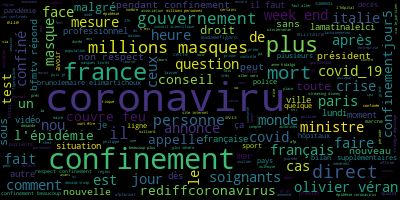
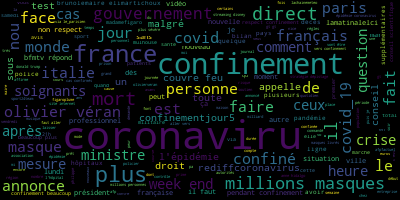
mots du jour

diff --git a/Wordcloud_actu_france.py b/Wordcloud_actu_france.py
@@ -1,0 +1,288 @@
+#!/usr/bin/env python
+# coding: utf-8
+
+# In[2]:
+
+
+#pip install tweepy')
+#import twitter
+import tweepy
+
+#### On remplace ici les valeurs des Key, secret et Token par celle de l'application crée sur l'environnement twitter
+CONSUMER_KEY = 'ZJyhgelWsFYnRKDPyGEXaCwkk'
+CONSUMER_SECRET = 'dcohnsZaqPV9zlqz3aFjQmOXeKCaFNMOfmZ6fSbuuyPiwSkNO3'
+OAUTH_TOKEN = '1146751549282148352-WVM8z9n77P4zhl7F11RJuTdeG5r6go'
+OAUTH_TOKEN_SECRET = 'TQGtNYyD3FBSXXdVkL7bLKhwNcHuUNsIwVezDSEWPuTaq'
+
+##### Connecxion à l'API
+auth = tweepy.OAuthHandler(CONSUMER_KEY, CONSUMER_SECRET)
+#  Token and secret
+auth.set_access_token(OAUTH_TOKEN, OAUTH_TOKEN_SECRET)
+
+# Création de l'API
+api = tweepy.API(auth) 
+
+## Afficher l'objet twitter API
+#api
+
+
+# #### Ma timeline
+
+# In[3]:
+
+
+#public_tweets = api.home_timeline()
+# foreach through all tweets pulled
+#for tweet in public_tweets:
+   # printing the text stored inside the tweet object
+#   print(tweet.user.screen_name,"a Twitté:",tweet.text)
+
+
+# #### Recherche d'un profil particulier (Ici Nobel Price, compte offciel)
+
+# In[4]:
+
+
+#### Recherche de profil tweeter  (user timeline)
+
+#api = tweepy.API(auth)
+
+# The Twitter user who we want to get tweets from Nobel price
+
+#name = "nobelprize"
+
+# Number of tweets to pull
+
+#tweetCount = 20
+
+# Calling the user_timeline function with our parameters
+#results = api.user_timeline(id=name, count=tweetCount, lang="fr")
+
+# foreach through all tweets pulled
+#for tweet in results:
+   # printing the text stored inside the tweet object
+#   print(tweet.text)
+
+
+# #### Recherche d'un mots clé en particulier (Requête twitter ou Hashtag)
+
+# In[5]:
+
+
+# Creating the API object while passing in auth information
+api = tweepy.API(auth)
+
+# Le mots a cherché
+query = "#France"
+# Langue
+language = "fr"
+
+# Calling the user_timeline function with our parameters
+results = api.search(q=query, lang=language)
+
+# foreach through all tweets pulled
+#for tweet in results:
+   # printing the text stored inside the tweet object
+#   print(tweet.user.screen_name,"Tweeted:",tweet.text)
+result2 = []
+for tre in results:
+    result2.append(results)
+
+
+# In[6]:
+
+
+#for tweet in results:
+   # printing the text stored inside the tweet object
+#   print(tweet.user.screen_name,"Tweeted:",tweet.text)
+
+
+# #### Récuperer les 100 derniers tweets de 8 journaux
+
+# In[7]:
+
+
+result = []
+liste = ["@CNEWS", "@BFMTV", "@lemondefr", "@le_Parisien", "@LCI", "@franceinfo", "@afpfr", "@Le_Figaro"]
+for ele in liste:
+    result.append(api.user_timeline(ele, count = 100))
+#for i in result:
+#    for tweet in i:
+#        print(tweet.text)
+    
+#len(result)
+
+
+# In[8]:
+
+
+#for i in result:
+#    for tweet in i:
+#        print(tweet.text)
+
+
+# In[9]:
+
+
+result3=result#+result2
+
+
+# In[10]:
+
+
+#result3
+
+
+# #### Nettoyage des données
+
+# In[11]:
+
+
+#pip install nltk
+#pip install textblob
+import tweepy as tw
+#import pandas as pd
+import matplotlib.pyplot as plt
+#import seaborn as sns
+#import itertools
+#import collections
+import nltk
+from nltk.corpus import stopwords
+import re
+#import networkx
+#from textblob import TextBlob
+
+import warnings
+warnings.filterwarnings("ignore")
+
+##### On définie une fonction de nettoyage des données
+
+def remove_url(txt):
+    """Remplace les url trouvée par le caractère vide " "
+    
+
+    Parametre
+    ----------
+    txt : string
+        la variable string que l'on soutaite remplacer
+
+    Sortie
+    -------
+    
+    Le fichier nettoyé des url
+    
+    """
+
+    #return " ".join(re.sub("([^0-9A-Za-z \t])|(\w+:\/\/\S+)", "", txt).split())
+    return " ".join(re.sub('http\w+:\/\/\S+', '', txt).split())
+
+
+# On retire les caractères 
+tweets_sans_urls = [remove_url(tweet.text)  for i in result3 for tweet in i]
+
+
+# In[12]:
+
+
+mots_dans_tweets = [tweet.lower().split() for tweet in tweets_sans_urls]
+
+
+# #### Retrait des mots 
+
+# In[13]:
+
+
+#### Téléchargement NLTK
+nltk.download('stopwords')
+stop_words = set(stopwords.words('french'))
+
+#list(stop_words)[0:25]
+
+
+# In[14]:
+
+
+tweet_sans_sw = [[mots for mots in mots_tweet if not mots in stop_words]
+                 for mots_tweet in mots_dans_tweets]
+
+
+# In[15]:
+liste_stop_words = list(stop_words)
+
+a_retirer = a_retirer = ["rt", "a", ":", "surtout", "si", "depuis", "de", "@cnews_sport:", "@lefigaroabonnes:", "le", "c'est","selon", "comme", "alors", "d'un", "d'une", "lefigaroabonnes", "tout", "tous", "@olivierveran:", "olivier véran", "va","ça", "entre"]+ liste_stop_words
+
+#### On réutilise double listes
+
+tweet_avec_mots_bannnis = [[mots for mots in mots_tweet if mots  not in a_retirer  ]
+                 for mots_tweet in tweet_sans_sw]
+
+
+# In[16]:
+
+
+#tweet_avec_mots_bannnis
+
+
+# #### WordCloud
+# 
+# 
+# 
+
+# In[17]:
+
+
+#pip install wordcloud
+import os.path
+from wordcloud import WordCloud
+
+#premiere maniere:
+a=""
+for mots in tweet_avec_mots_bannnis:
+  a=a+" ".join(mots)
+#On classifie en fonction de leurs importance les mots de tweet_sans_sw.txt avec Wordcloud
+wordcloud = WordCloud(max_font_size=40).generate(a)
+
+#Deuxieme maniere :
+#on importe les mots de tweet_sans_sw dans le txt
+#f = open("tweet_sans_sw.txt", "w")
+#for mots in tweet_sans_sw:
+#    f.write("\n".join(mots))
+#wordcloud = WordCloud(max_font_size=40).generate(open(path.join(d, 'tweet_sans_sw.txt')).read())
+#-----------------------------------------
+
+#On affiche sur une image
+import matplotlib.pyplot as plt
+plt.imshow(wordcloud, interpolation='bilinear')
+plt.axis("off")
+#plt.figure()
+plt.show()
+
+
+# In[18]:
+
+
+wordcloud.to_file('/home/venus/Wordcloud twitter/mots_du_jour.png')
+
+wordcloud.to_file('/home/venus/Git_repo/mots_du_jour.png')
+# In[ ]:
+
+
+
+
+# In[ ]:
+
+
+
+
+
+# In[ ]:
+
+
+
+
+
+# In[ ]:
+
+
+
+
